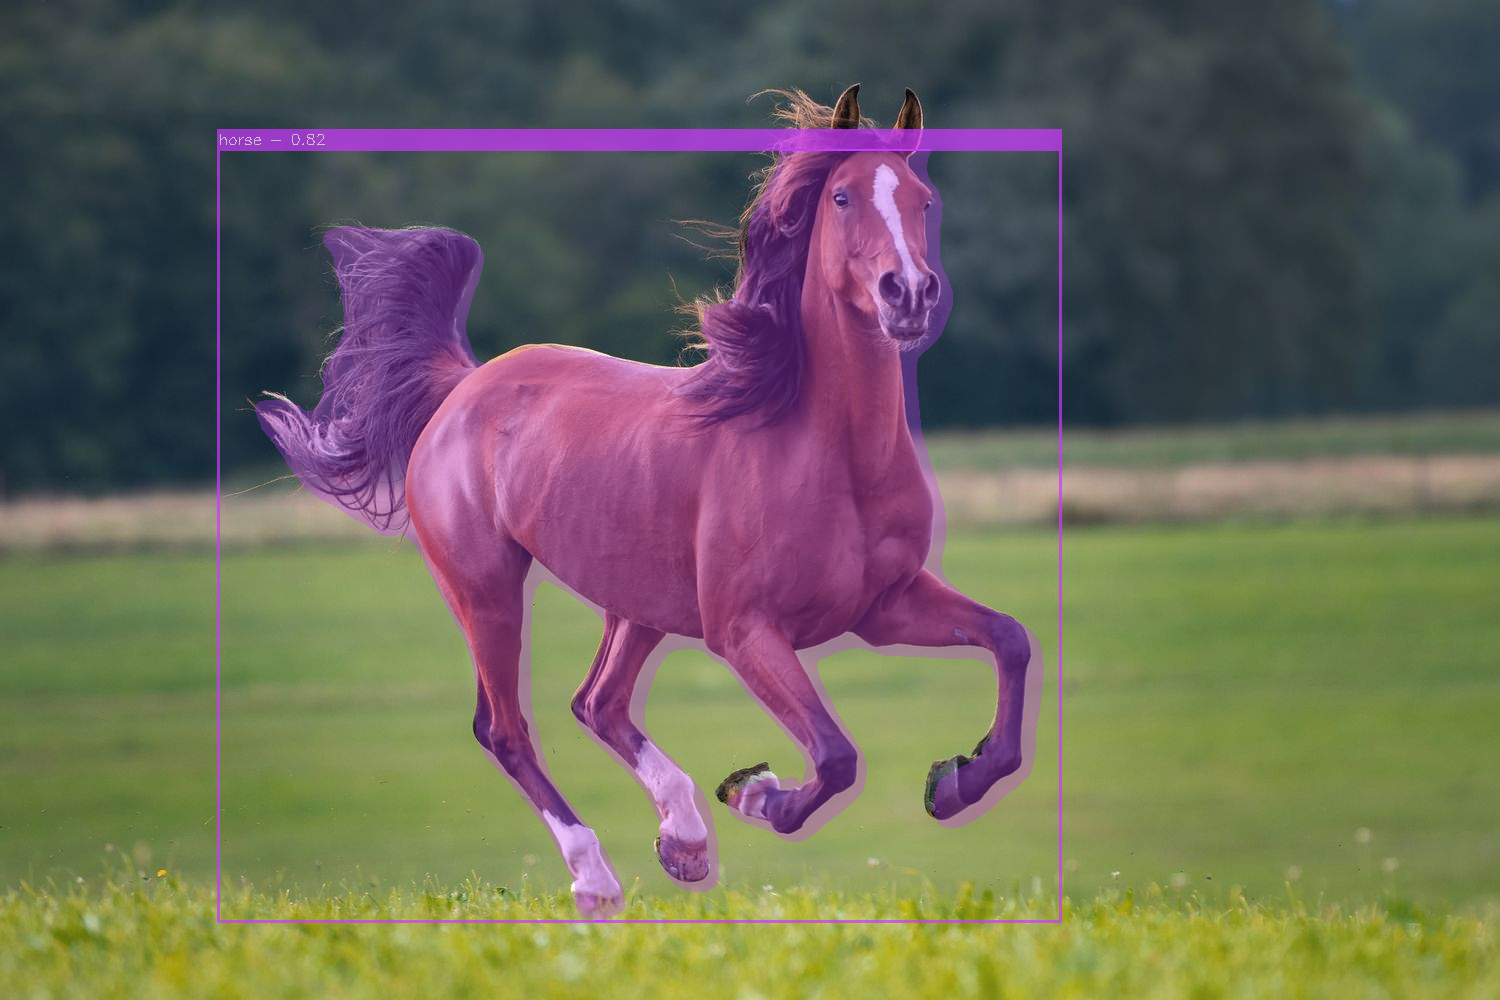
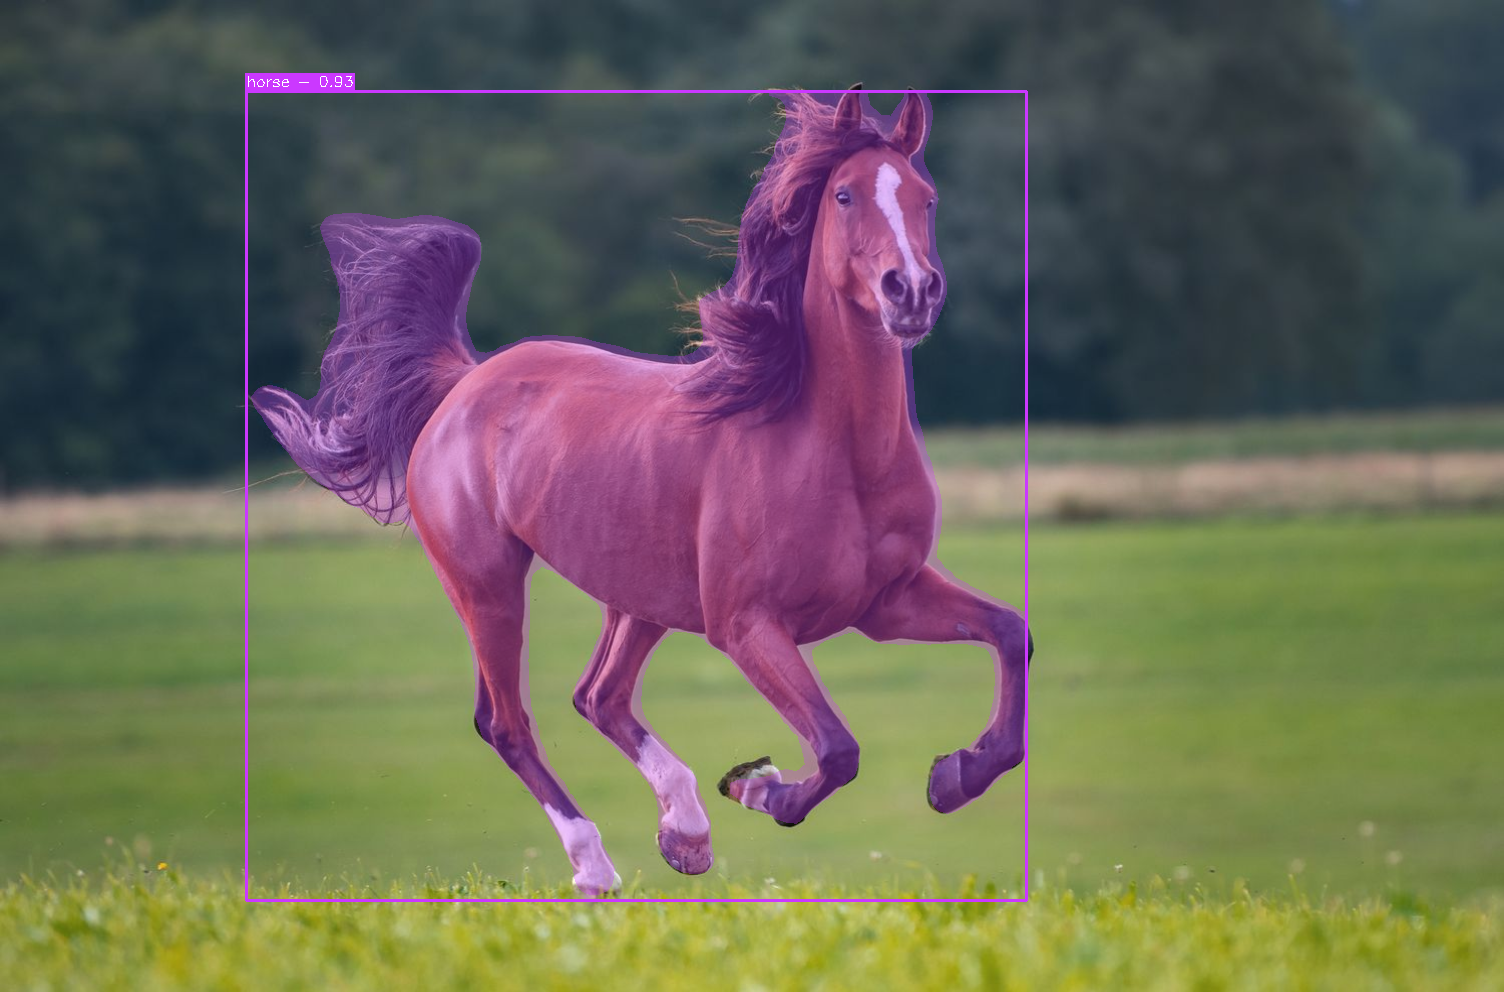
Use padding to increase percision

diff --git a/main.py b/main.py
@@ -1,41 +1,55 @@
 import ast
+
 import numpy as np
 import cv2
-
 import onnxruntime as ort
 
-from utils import handle_overflow_box, Colors
+from utils import draw_boxes, get_divable_size, Colors
 
 
 img_path = "./images/horse.jpg"
 model_path = "./models/yolov5s-seg.onnx"
 
 colors = Colors()
-conf_tresh = 0.25
+score_tresh = 0.25
+conf_tresh = 0.2
 iou_tresh = 0.45
-mask_tresh = 0.5
+mask_tresh = 0.45
 
 
 if __name__ == "__main__":
     model = ort.InferenceSession(model_path)
     _, _, model_width, model_height = model.get_inputs()[0].shape
     _, seg_chanels, seg_width, seg_height = model.get_outputs()[1].shape
-    labels = ast.literal_eval(model.get_modelmeta().custom_metadata_map["names"])
+    metadata = model.get_modelmeta().custom_metadata_map
+    labels, stride = ast.literal_eval(metadata["names"]), ast.literal_eval(metadata["stride"])
 
+    # Image preprocessing
     img = cv2.imread(img_path)
-    overlay = img.copy()
     img_height, img_width, _ = img.shape
 
-    x_ratio = img_width / model_width
-    y_ratio = img_height / model_height
+    ## resize to divable image size by stride
+    img_width, img_height = get_divable_size([img_width, img_height], stride)
+    img = cv2.resize(img, [img_width, img_height])
 
+    ## padding image
+    max_size = max(img_width, img_height)  # get max size
+    img_padded = np.zeros((max_size, max_size, 3), dtype=np.uint8)  # initial zeros img mat
+    img_padded[:img_height, :img_width] = img.copy()  # place original image
+    overlay = img_padded.copy()  # make overlay mat
+
+    ## ratios
+    x_ratio = max_size / model_width
+    y_ratio = max_size / model_height
+
+    # run model
     input_img = cv2.dnn.blobFromImage(
-        img,
+        img_padded,
         1 / 255.0,
         (model_width, model_height),
         swapRB=True,
         crop=False,
-    )
+    )  # normalize, resize and swapRB : [h, w, 3] => [1, 3, w, h]
     result = model.run(None, {"images": input_img})
 
     # box preprocessing
@@ -44,47 +58,52 @@ if __name__ == "__main__":
     result[0][0, :, 2] *= x_ratio
     result[0][0, :, 3] *= y_ratio
 
+    # get boxes, conf, score, and mask
     boxes = result[0][0, :, :4]
     confidences = result[0][0, :, 4]
     scores = confidences.reshape(-1, 1) * result[0][0, :, 5:85]
     masks = result[0][0, :, 85:]
 
+    # NMS
     selected = cv2.dnn.NMSBoxes(boxes, confidences, conf_tresh, iou_tresh)
 
-    for i in selected:
+    boxes_to_draw = []  # boxes to draw
+
+    for i in selected:  # loop through selected
         box = boxes[i].round().astype(np.int32)  # to int
-        box = handle_overflow_box(box, [img_width, img_height])
 
-        _, score, _, label = cv2.minMaxLoc(scores[i])
-        color = colors(label[1], True)
-        cv2.rectangle(img, box, color, 2)
-        cv2.rectangle(img, (box[0] - 1, box[1] - 20), (box[0] + box[2], box[1]), color, -1)
-        cv2.putText(
-            img,
-            f"{labels[label[1]]} - {round(score, 2)}",
-            (box[0], box[1] - 5),
-            cv2.FONT_HERSHEY_SIMPLEX,
-            0.5,
-            [255, 255, 255],
-        )
+        _, score, _, label = cv2.minMaxLoc(scores[i])  # get score and classId
+        if score >= score_tresh:  # filtering by score_tresh
+            color = colors(label[1], True)  # get color
 
-        # crop mask from proto
-        x = box[0] * seg_width // img_width
-        y = box[1] * seg_height // img_height
-        w = box[2] * seg_width // img_width
-        h = box[3] * seg_height // img_height
+            # save box to draw latter (add mask first)
+            boxes_to_draw.append([box, labels[label[1]], score, color])
 
-        protos = result[1][0, :, y : y + h, x : x + w].reshape(seg_chanels, w * h)  # get protos
-        protos = np.expand_dims(masks[i], 0) @ protos  # matmul
-        protos = protos.reshape(h, w)  # reshape
-        protos = 1 / (1 + np.exp(-protos))  # sigmoid
-        mask = cv2.resize(protos, (box[2], box[3]))
-        mask = mask >= mask_tresh
+            # crop mask from proto
+            x = int(round(box[0] * seg_width / max_size))
+            y = int(round(box[1] * seg_height / max_size))
+            w = int(round(box[2] * seg_width / max_size))
+            h = int(round(box[3] * seg_height / max_size))
 
-        to_mask = overlay[box[1] : box[1] + box[3], box[0] : box[0] + box[2]]
-        to_mask[mask] = color
+            # process protos
+            protos = result[1][0, :, y : y + h, x : x + w].reshape(seg_chanels, w * h)  # get protos
+            protos = np.expand_dims(masks[i], 0) @ protos  # matmul
+            protos = protos.reshape(h, w)  # reshape
+            protos = 1 / (1 + np.exp(-protos))  # sigmoid
+            mask = cv2.resize(protos, (box[2], box[3]))  # resize mask
+            mask = mask >= mask_tresh  # filtering mask by tresh
 
-    img = cv2.addWeighted(img, 0.7, overlay, 0.3, 0)
+            # add mask to overlay layer
+            to_mask = overlay[box[1] : box[1] + box[3], box[0] : box[0] + box[2]]
+            to_mask[mask] = color
+
+    img_padded = cv2.addWeighted(img_padded, 0.7, overlay, 0.3, 0)  # combine image and overlay
+
+    for draw_box in boxes_to_draw:  # draw boxes
+        draw_boxes(img_padded, *draw_box)
+
+    img = img_padded[:img_height, :img_width]  # crop padding
+
     cv2.imshow("output", img)
     cv2.waitKey(0)
     cv2.destroyAllWindows()

diff --git a/utils.py b/utils.py
@@ -1,3 +1,32 @@
+import cv2
+
+
+def draw_boxes(source, box, label, score, color):
+    cv2.rectangle(source, box, color, 2)  # draw box
+    (label_width, label_height), _ = cv2.getTextSize(
+        f"{label} - {round(score, 2)}",
+        cv2.FONT_HERSHEY_SIMPLEX,
+        0.5,
+        1,
+    )
+    cv2.rectangle(
+        source,
+        (box[0] - 1, box[1] - label_height - 6),
+        (box[0] + label_width, box[1]),
+        color,
+        -1,
+    )
+    cv2.putText(
+        source,
+        f"{label} - {round(score, 2)}",
+        (box[0], box[1] - 5),
+        cv2.FONT_HERSHEY_SIMPLEX,
+        0.5,
+        [255, 255, 255],
+        1,
+    )
+
+
 def get_divable_size(imgsz, stride):
     for i in range(len(imgsz)):
         div, mod = divmod(imgsz[i], stride)
@@ -5,20 +34,6 @@ def get_divable_size(imgsz, stride):
             div += 1
         imgsz[i] = div * stride
     return imgsz
-
-
-def handle_overflow_box(box, imgsz):
-    if box[0] < 0:
-        box[0] = 0
-    elif box[0] >= imgsz[0]:
-        box[0] = imgsz[0] - 1
-    if box[1] < 0:
-        box[1] = 0
-    elif box[1] >= imgsz[1]:
-        box[1] = imgsz[1] - 1
-    box[2] = box[2] if box[0] + box[2] <= imgsz[0] else imgsz[0] - box[0]
-    box[3] = box[3] if box[1] + box[3] <= imgsz[1] else box[3] - box[1]
-    return box
 
 
 class Colors:
